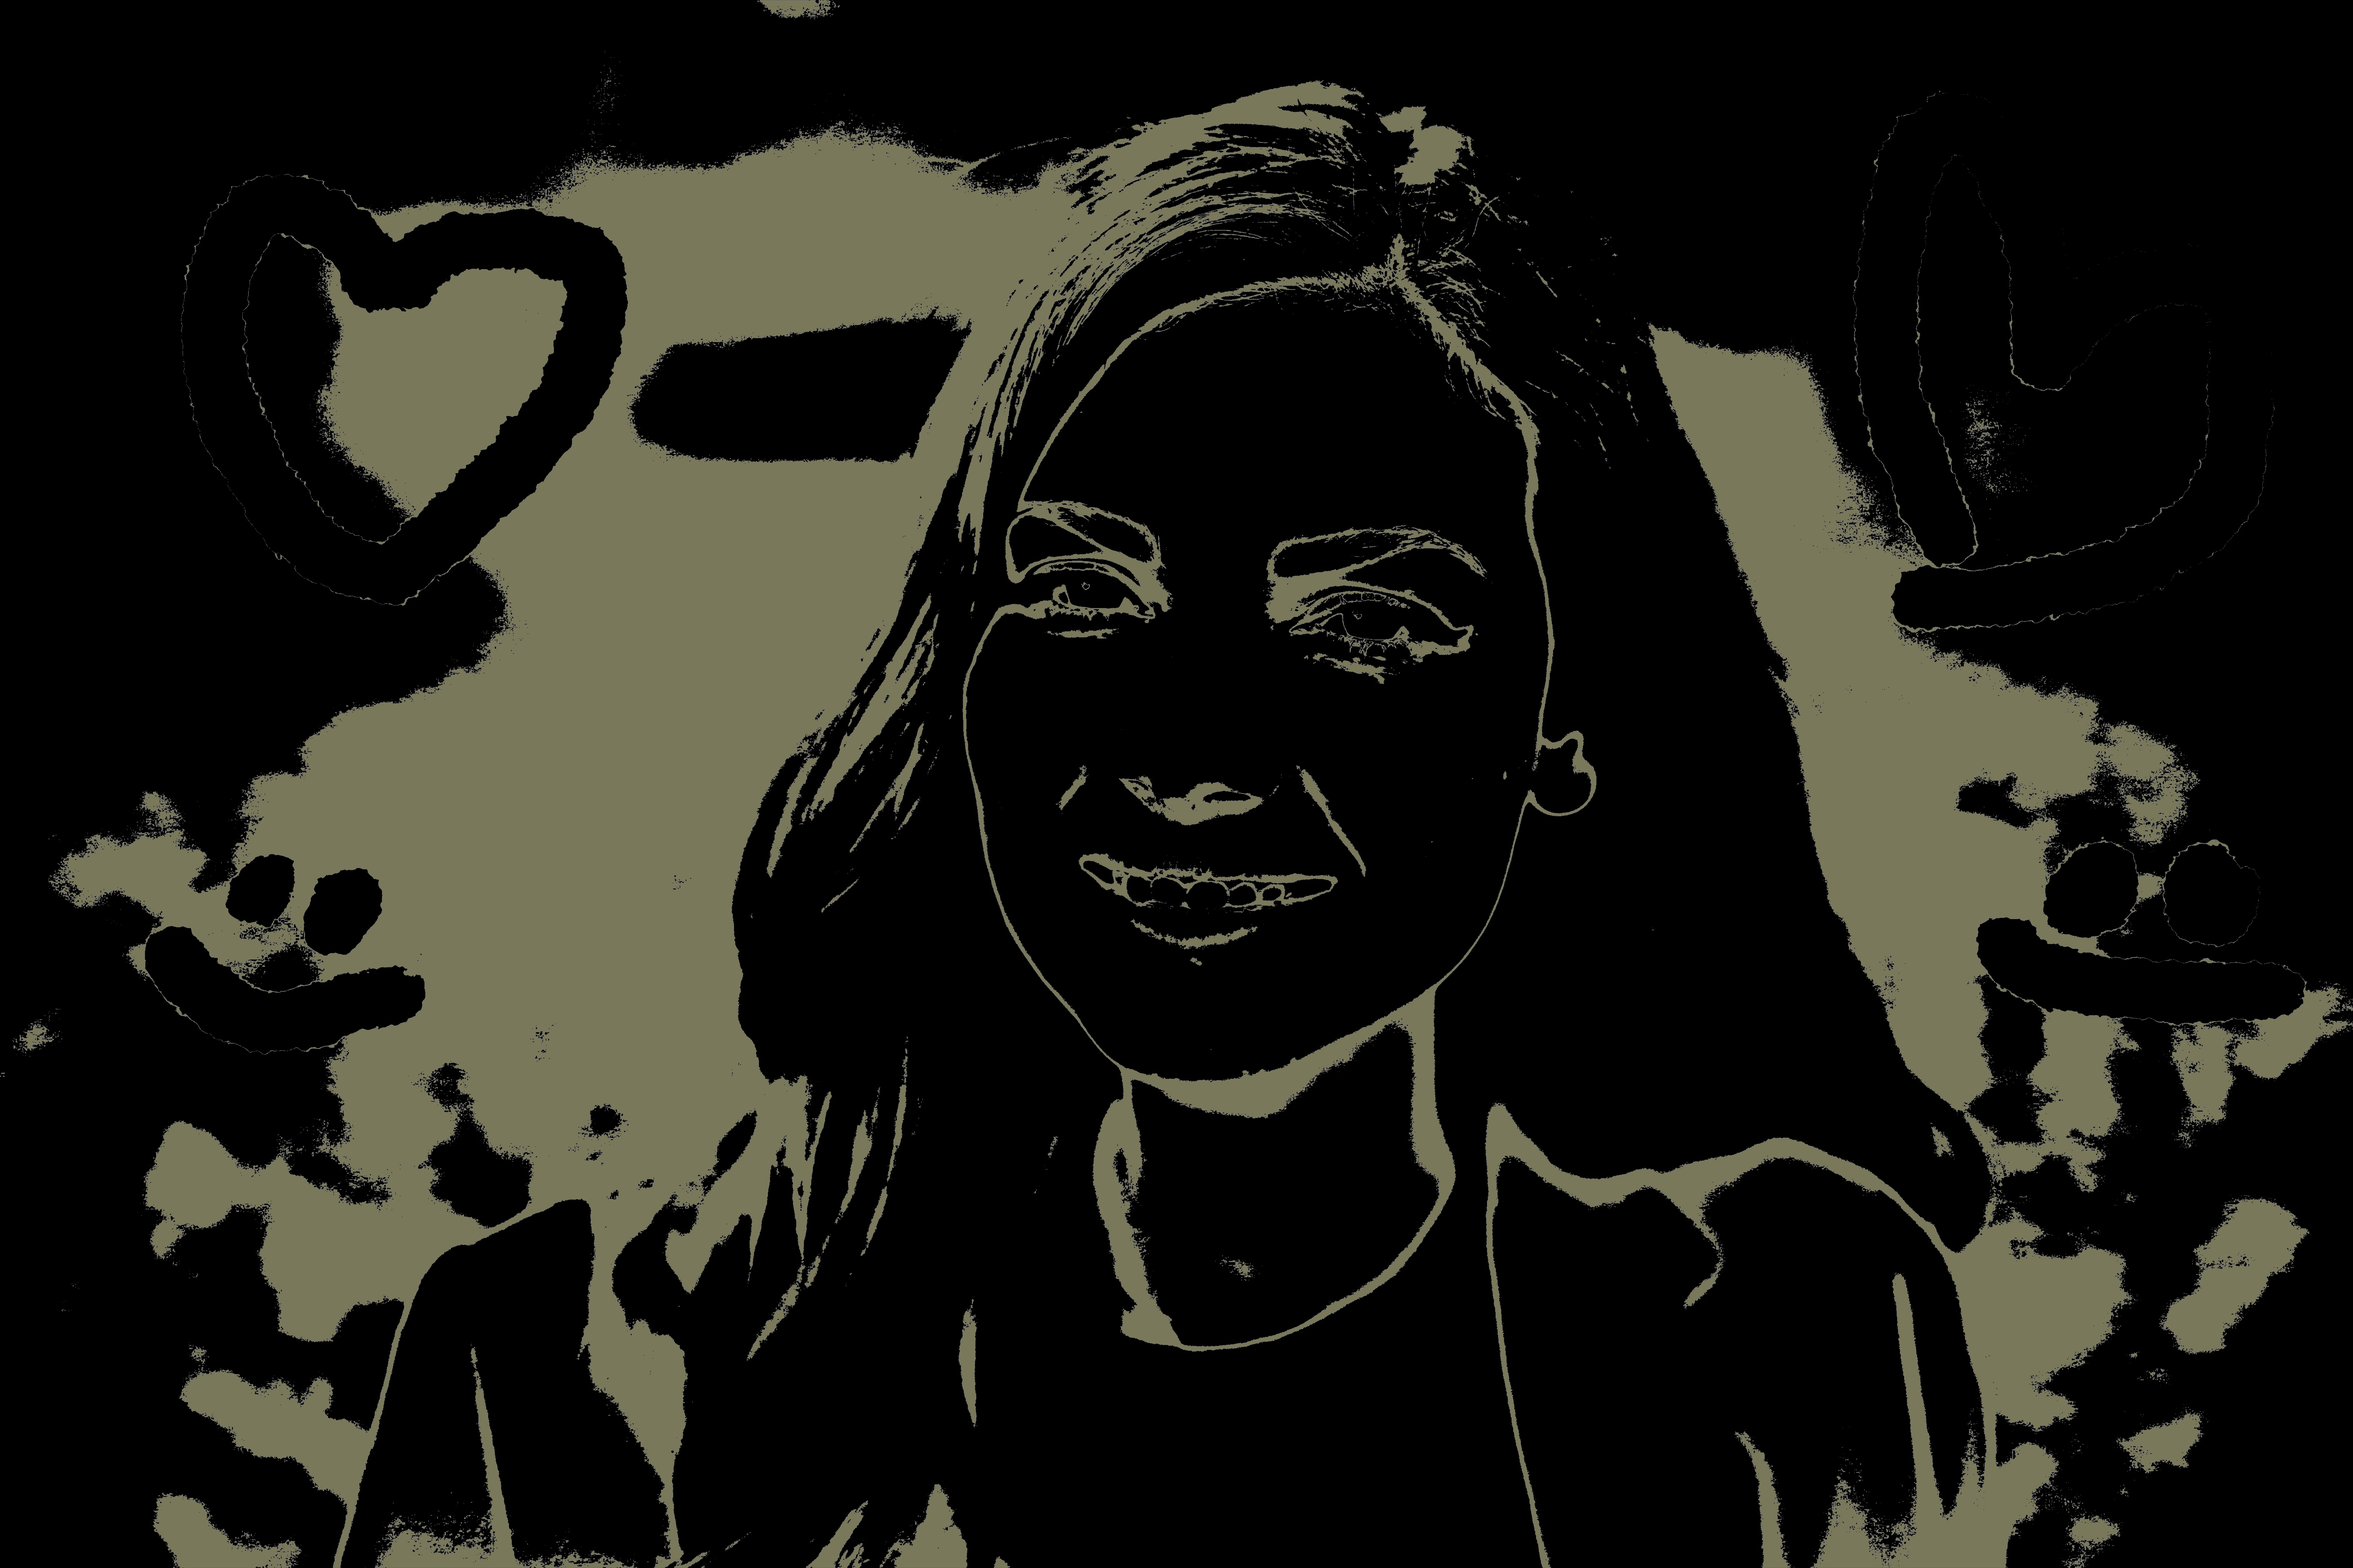
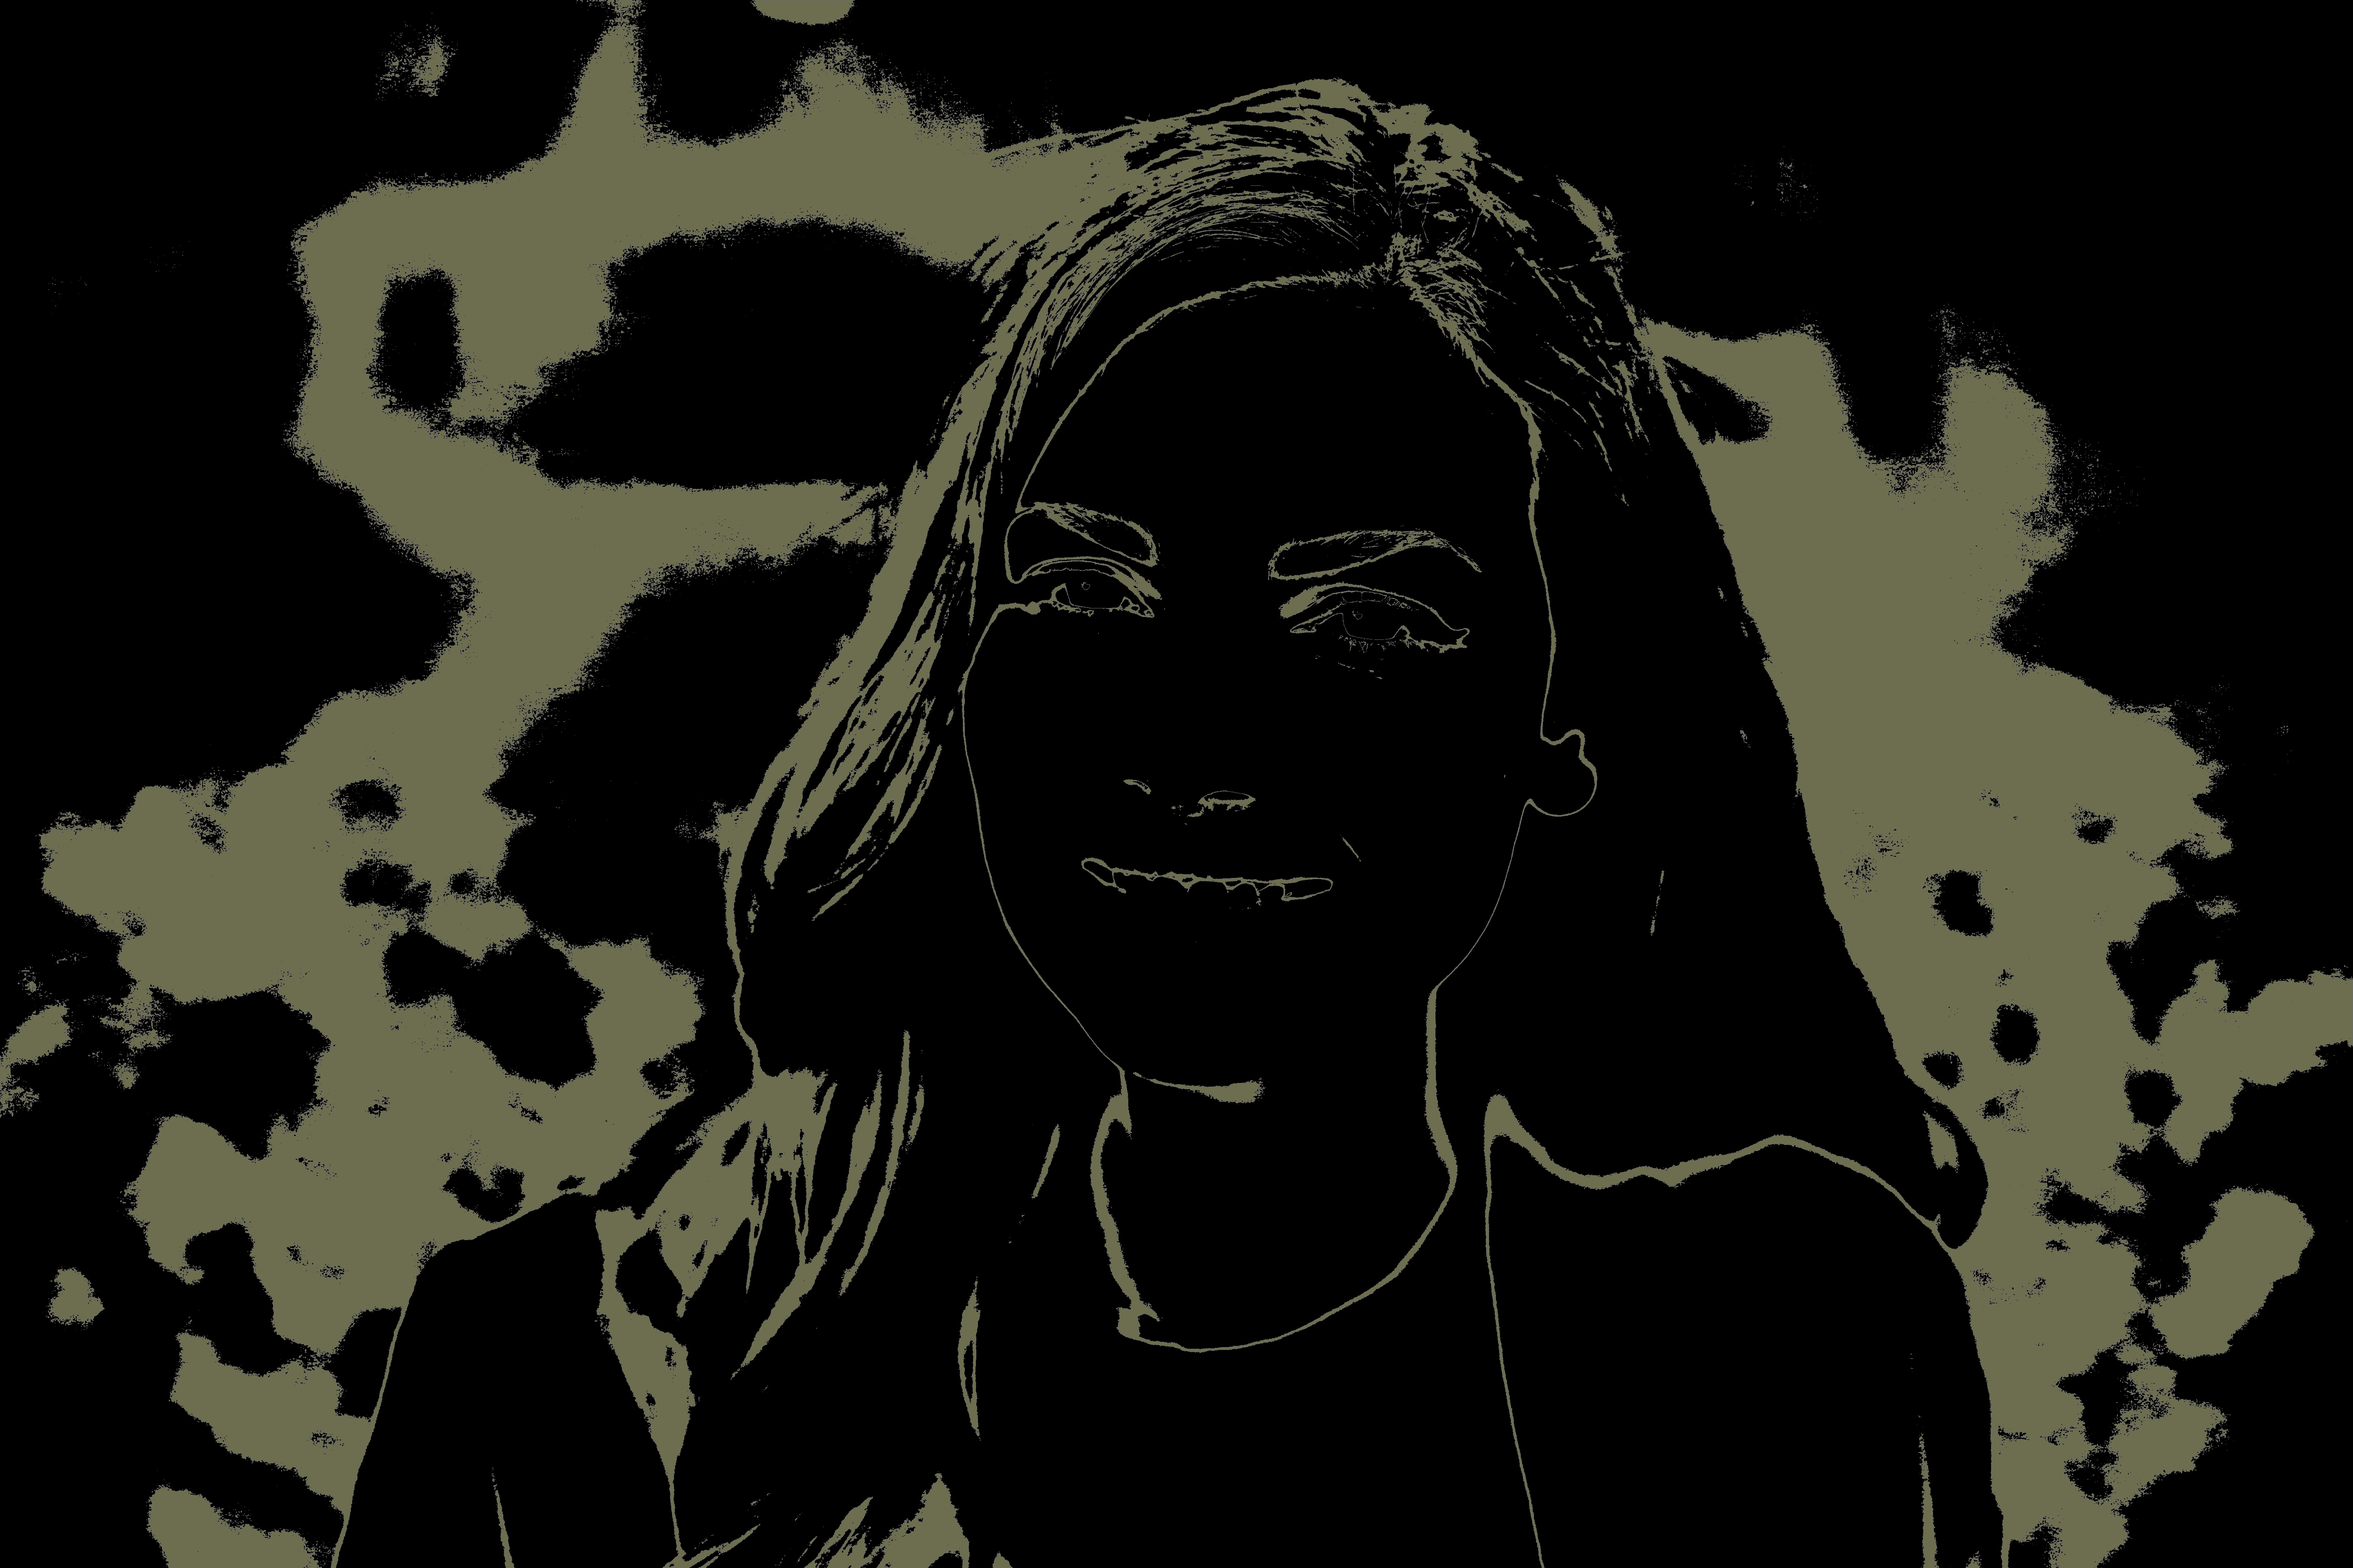
got it to work out pretty well

diff --git a/canny.py b/canny.py
@@ -1,0 +1,29 @@
+from __future__ import print_function
+import cv2
+import argparse
+
+
+max_lowThreshold = 1000
+window_name = 'Edge Map'
+title_trackbar = 'Min Threshold:'
+ratio = 10
+kernel_size = 200
+def CannyThreshold(val):
+    low_threshold = val
+    img_blur = cv2.blur(src_gray, (3,3))
+    detected_edges = cv2.Canny(img_blur, low_threshold, low_threshold*ratio, kernel_size)
+    mask = detected_edges != 0
+    dst = src * (mask[:,:,None].astype(src.dtype))
+    cv2.imshow(window_name, dst)
+parser = argparse.ArgumentParser(description='Code for Canny Edge Detector tutorial.')
+parser.add_argument('--input', help='Path to input image.', default='fruits.jpg')
+args = parser.parse_args()
+src = cv2.imread(cv2.samples.findFile(args.input))
+if src is None:
+    print('Could not open or find the image: ', args.input)
+    exit(0)
+src_gray = cv2.cvtColor(src, cv2.COLOR_BGR2GRAY)
+cv2.namedWindow(window_name)
+cv2.createTrackbar(title_trackbar, window_name , 0, max_lowThreshold, CannyThreshold)
+CannyThreshold(0)
+cv2.waitKey()

diff --git a/quantized.py b/quantized.py
@@ -120,10 +120,21 @@ for i in range(args["clusters"]):
 quant = cv2.cvtColor(quant, cv2.COLOR_BGR2RGB)
 image = cv2.cvtColor(image, cv2.COLOR_BGR2RGB)
 
+
+cv2.namedWindow('canny', cv2.WINDOW_NORMAL)
+cv2.resizeWindow('canny', 2000,2000)
+canny = cv2.Canny(final_result, 70, 70)
+white_background = np.full(final_result.shape, 255, dtype=np.uint8) 
+mask = canny != 255
+final_canny = white_background * (mask[:,:,None].astype(white_background.dtype))
+
+cv2.imshow('canny', final_canny)
+cv2.waitKey()
+
 #cv2.namedWindow('images', cv2.WINDOW_NORMAL)
 #cv2.resizeWindow('images', 2000,2000)
 #cv2.imshow("images", np.hstack([image, quant, final_result]))
-cv2.imwrite('output.jpg', np.hstack([image, quant, final_result]) )
+cv2.imwrite('output.jpg', np.hstack([image, quant, final_result, final_canny ]) )
 #cv2.waitKey()
 
 
